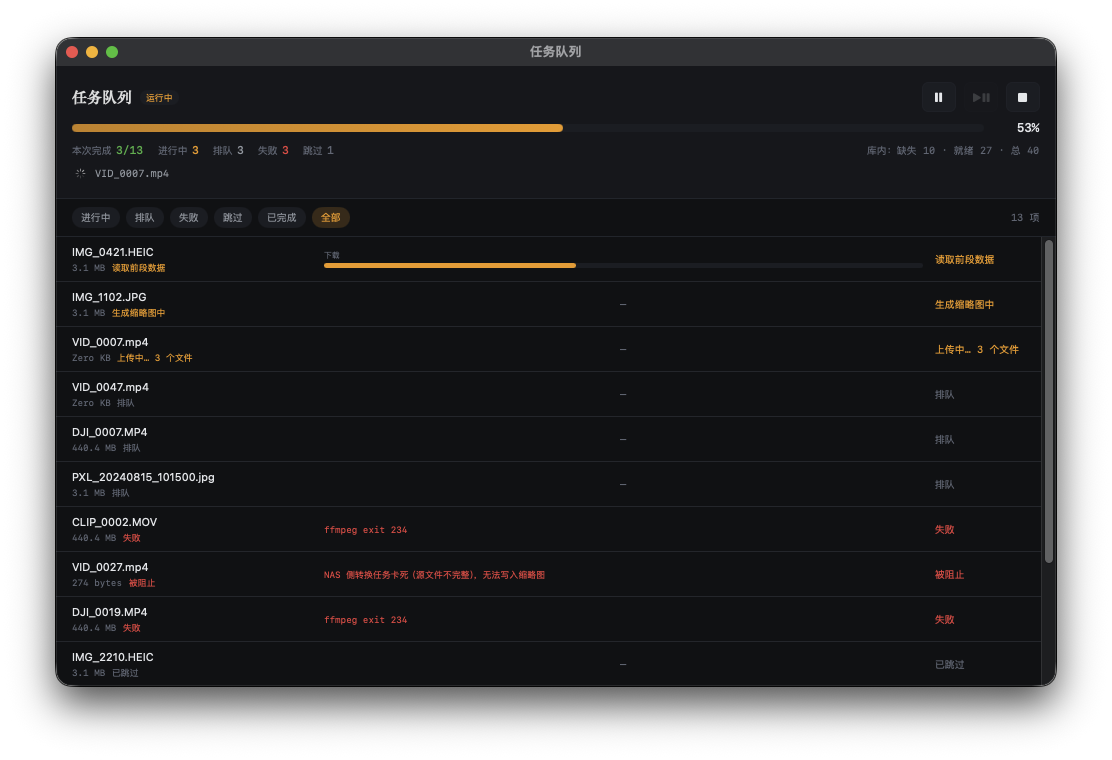
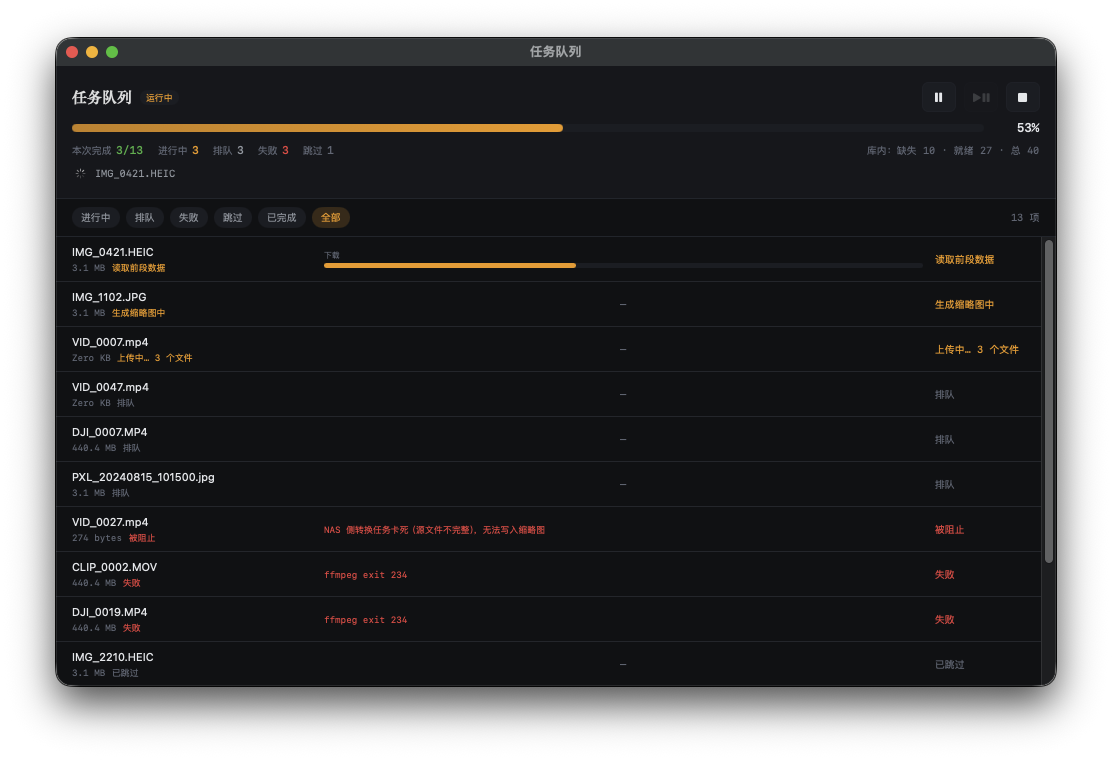
docs: neutral demo account name, refreshed screenshots, add CHANGELOG
Demo screenshots now use 'Home NAS' instead of a placeholder name so the
documented UI matches what a new user sees. Internal DESIGN.md and PROGRESS.md
are gitignored: they contain host and account identifiers.

Changed region(s): [[0.3058, 0.6658, 0.4892, 0.7868], [0.0612, 0.6658, 0.1529, 0.7868], [0.0917, 0.2118, 0.1529, 0.2421]]

diff --git a/Sources/SIAApp/DemoMode.swift b/Sources/SIAApp/DemoMode.swift
@@ -141,7 +141,7 @@ enum DemoMode {
         }
 
         return Snapshot(
-            account: Account(displayName: "Demo NAS", host: "demo.local:5001",
+            account: Account(displayName: "Home NAS", host: "home.local:5001",
                              username: "demo"),
             roots: rootFolders,
             folders: entries,

diff --git a/CHANGELOG.md b/CHANGELOG.md
@@ -1,0 +1,31 @@
+# Changelog
+
+All notable changes are recorded here, and every release is published at
+<https://github.com/dream7zz/Synology-image-daddy-converter/releases>.
+
+## [0.2.1] — 2026-10-25
+
+### Fixed
+- **Crash when browsing thumbnails** (`EXC_BAD_ACCESS` in
+  `_NativeDictionary._copyOrMoveAndResize`). Concurrent thumbnail loads on the
+  cooperative thread pool mutated the in-memory cache dictionary without
+  synchronization, so a resize could free storage another thread was reading.
+  All cache access now goes through a single locked mutator.
+- Thumbnail memory cache is now bounded to 400 entries; previously every image
+  ever displayed stayed resident, which could grow to gigabytes during long
+  browsing sessions.
+
+### Added
+- `siarace`: a ThreadSanitizer harness for the thumbnail cache. The unguarded
+  variant reports `Swift access race`; the fixed implementation completes
+  38,400 concurrent calls with no report.
+
+## [0.2.0] — 2026-10-20
+
+### Added
+- Multi-account support with per-account caches and ledgers.
+- Per-stage progress (download / extract / upload) and per-item failure reasons.
+- Folder-scoped scanning: ticked folders define the grid, counts and queue.
+- "Invalid data" category for 0-byte and truncated files, excluded from the queue.
+- Three decode paths: AVFoundation resource loader, tail-index reassembly, and
+  prefix decoding for stream-oriented containers.
